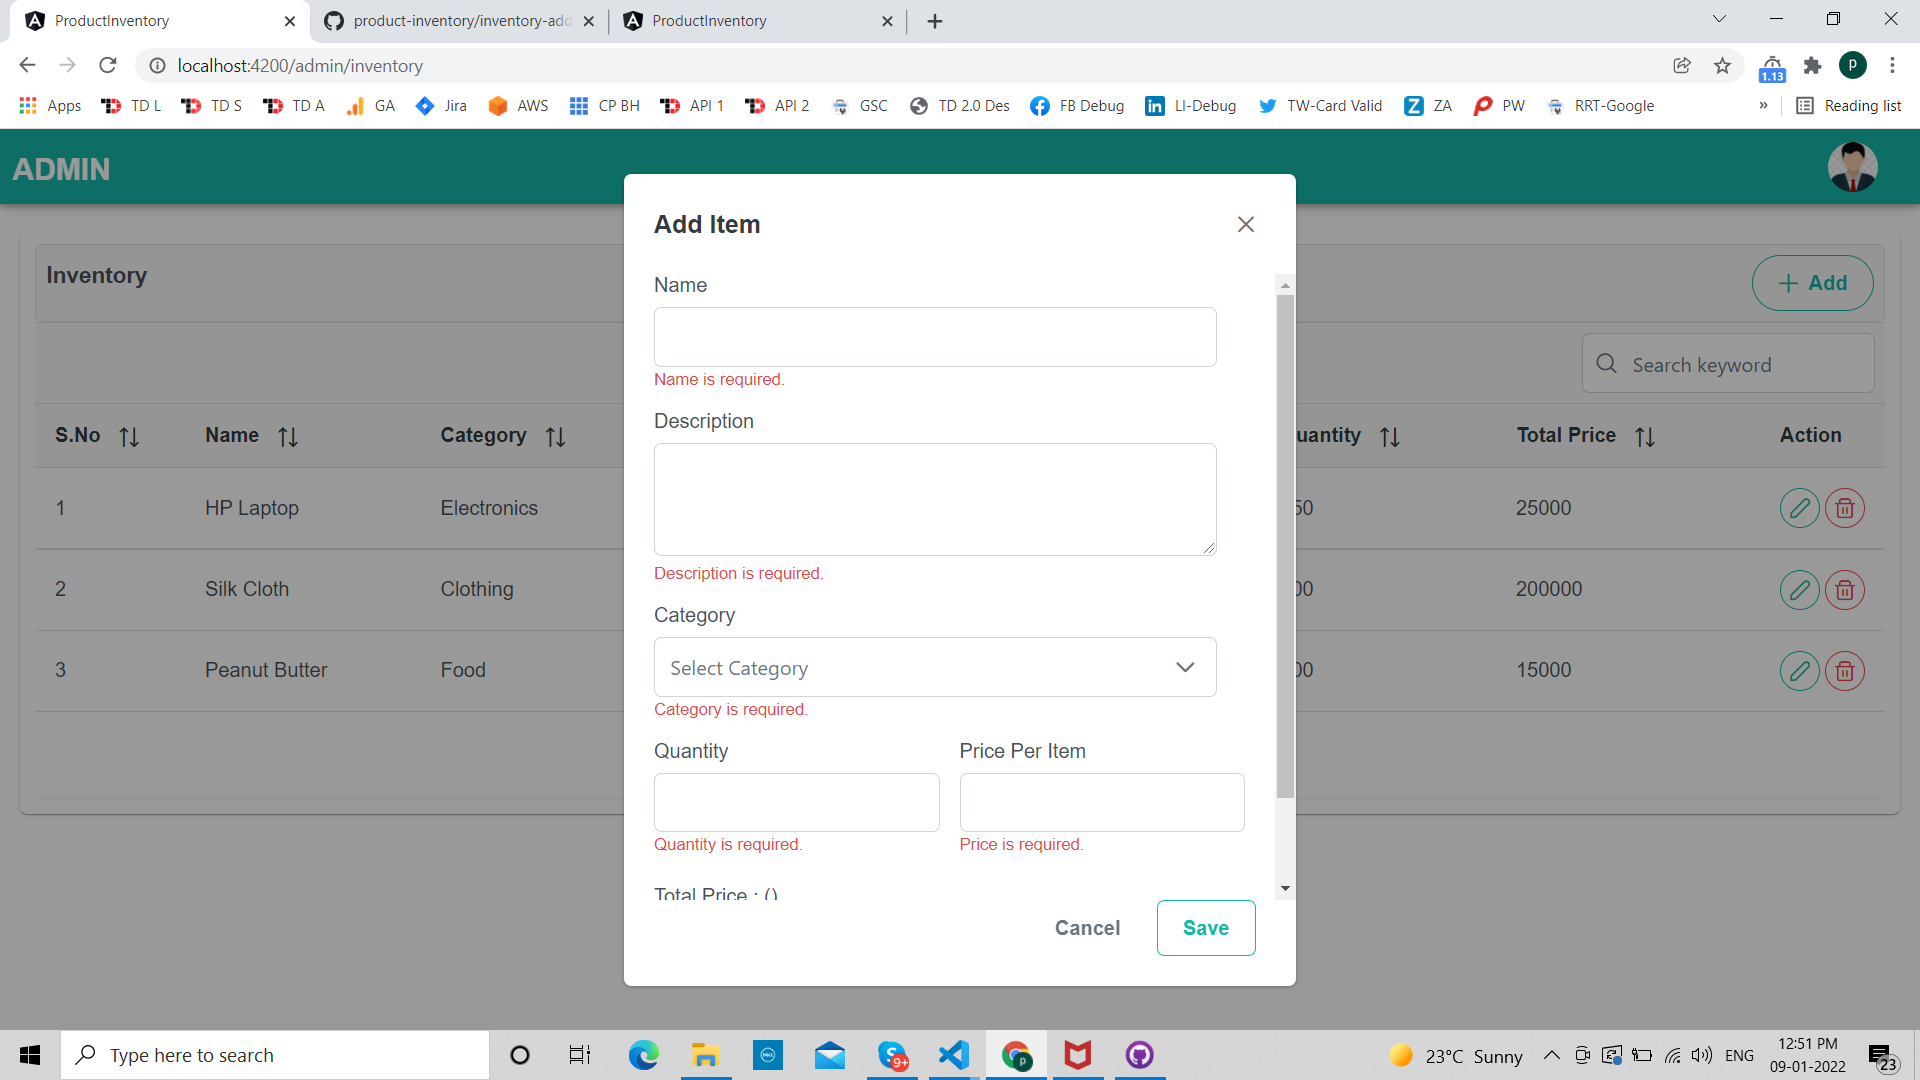
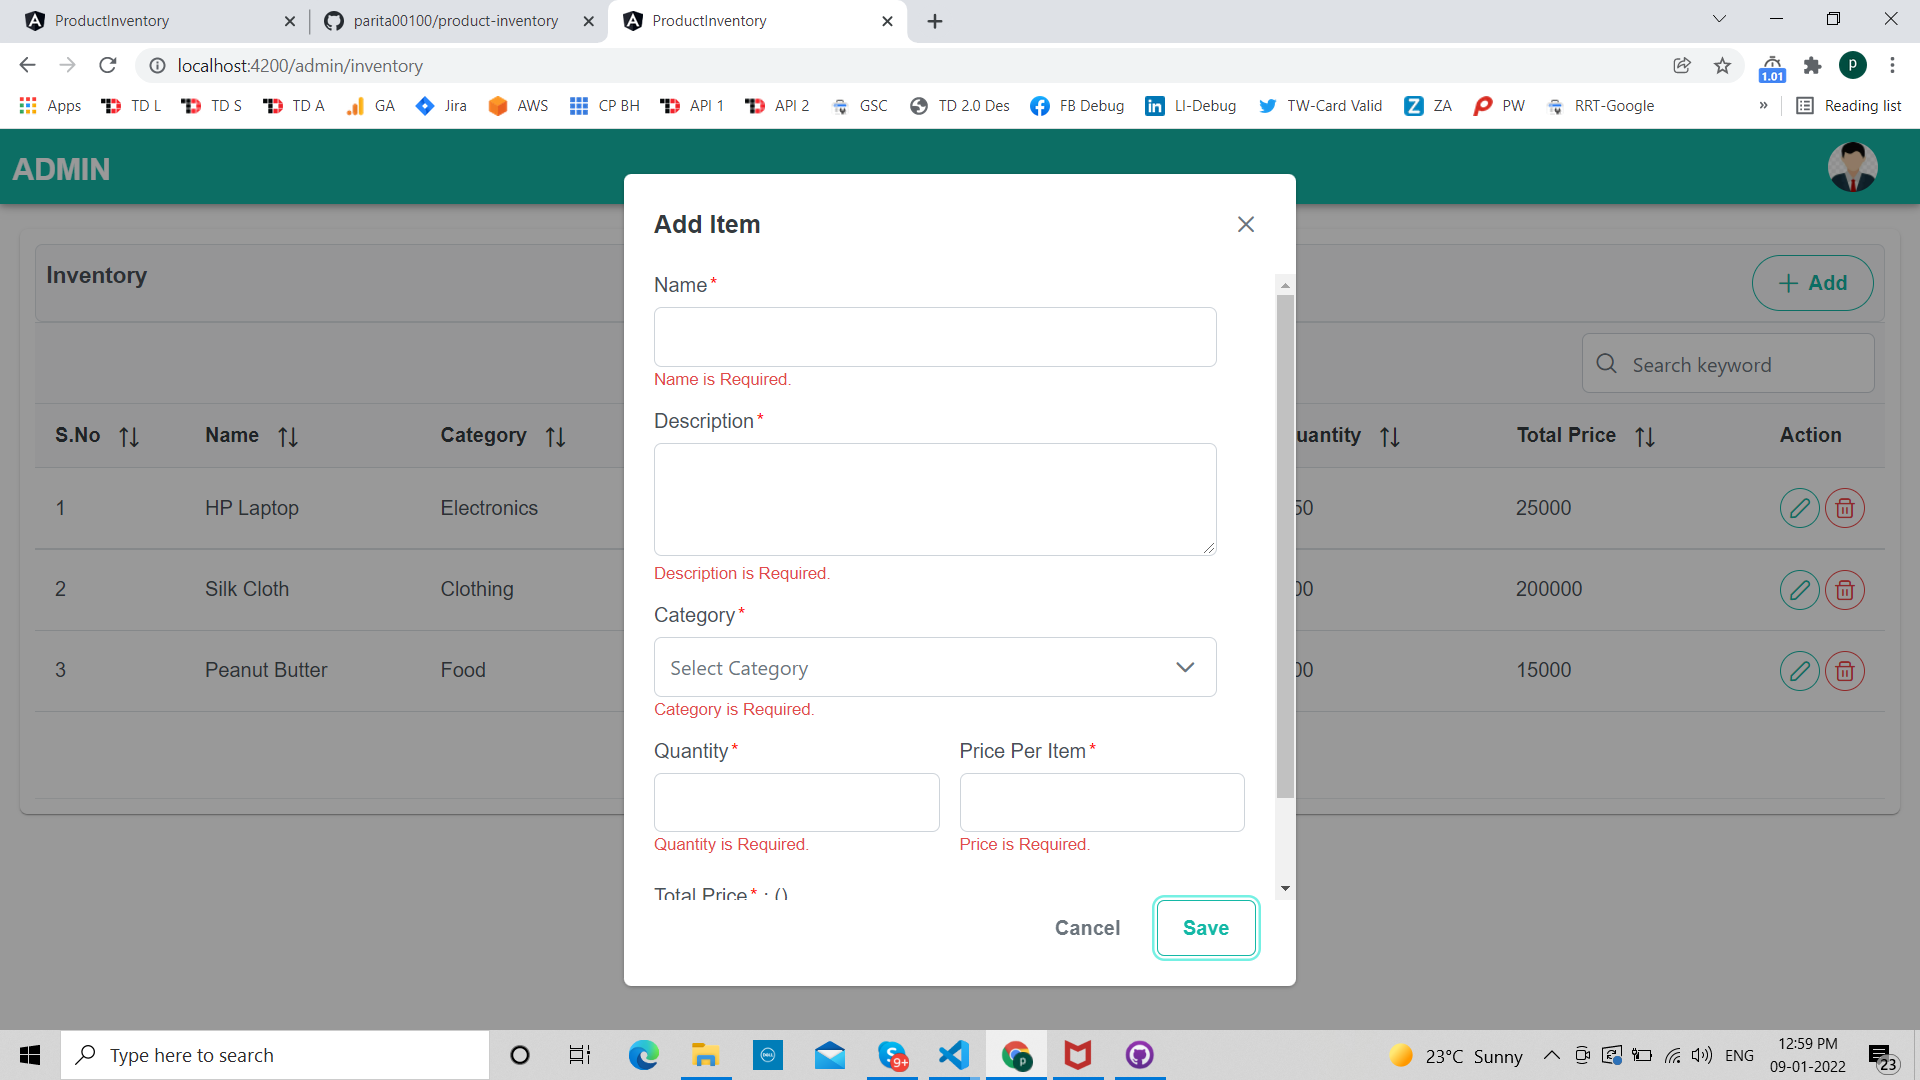
added mandatory fields
added mandatory fields

diff --git a/src/app/admin-features/inventory-management/inventory-management.component.html b/src/app/admin-features/inventory-management/inventory-management.component.html
@@ -95,50 +95,49 @@
     <div class="card">
       <div class="p-fluid p-formgrid">
         <div class="p-field">
-          <label for="name">Name</label>
+          <label for="name">Name<span class="mandatoryfield">*</span></label>
           <input id="name" type="text" pInputText formControlName="name">
-          <small *ngIf="(itemFrm.name.invalid && inventoryObj.submitted)" class="p-error">Name is
-            required.</small>
+          <small *ngIf="(itemFrm.name.invalid && inventoryObj.submitted)" class="p-error">Name
+            {{message?.validation.isRequired}}</small>
         </div>
         <div class="p-field">
-          <label for="description">Description</label>
+          <label for="description">Description<span class="mandatoryfield">*</span></label>
           <textarea id="description" type="text" rows="3" pInputTextarea formControlName="description"></textarea>
-          <small *ngIf="(itemFrm.description.invalid && inventoryObj.submitted)" class="p-error">Description is
-            required.</small>
+          <small *ngIf="(itemFrm.description.invalid && inventoryObj.submitted)" class="p-error">Description
+            {{message?.validation.isRequired}}</small>
         </div>
         <div class="p-field">
           <!-- (onChange)="selectType()" -->
-          <label for="category">Category</label>
+          <label for="category">Category<span class="mandatoryfield">*</span></label>
           <p-dropdown [options]="inventoryObj.categoryOption" placeholder="Select Category" formControlName="category"
             optionLabel="name"></p-dropdown>
-          <small *ngIf="(itemFrm.category.invalid && inventoryObj.submitted)" class="p-error">Category is
-            required.</small>
+          <small *ngIf="(itemFrm.category.invalid && inventoryObj.submitted)" class="p-error">Category
+            {{message?.validation.isRequired}}</small>
         </div>
         <div class="p-grid">
           <div class="p-field p-col-12 p-md-6">
-            <label for="quantity">Quantity</label>
+            <label for="quantity">Quantity<span class="mandatoryfield">*</span></label>
             <p-inputNumber formControlName="quantity"
               (onInput)="calculateTotalPrice($event.value,itemFrm.pricePerItem.value)"></p-inputNumber>
-            <small *ngIf="(itemFrm.quantity.invalid && inventoryObj.submitted)" class="p-error">Quantity is
-              required.</small>
+            <small *ngIf="(itemFrm.quantity.invalid && inventoryObj.submitted)" class="p-error">Quantity
+              {{message?.validation.isRequired}}</small>
 
           </div>
           <div class="p-field p-col-12 p-md-6">
-            <label for="quantity">Price Per Item</label>
+            <label for="quantity">Price Per Item<span class="mandatoryfield">*</span></label>
             <p-inputNumber formControlName="pricePerItem"
               (onInput)="calculateTotalPrice(itemFrm.quantity.value,$event.value)" mode="decimal"
               [minFractionDigits]="2" [maxFractionDigits]="2"></p-inputNumber>
-            <small *ngIf="(itemFrm.pricePerItem.invalid && inventoryObj.submitted)" class="p-error">Price is
-              required.</small>
-
+            <small *ngIf="(itemFrm.pricePerItem.invalid && inventoryObj.submitted)" class="p-error">Price
+              {{message?.validation.isRequired}}</small>
           </div>
         </div>
         <div class="p-field">
-          <label for="quantity">Total Price :</label>
+          <label for="quantity">Total Price<span class="mandatoryfield">*</span> :</label>
           ({{itemFrm.totalPrice.value}})
           <br>
-          <small *ngIf="(itemFrm.totalPrice.invalid && inventoryObj.submitted)" class="p-error">Total Price is
-            required.</small>
+          <small *ngIf="(itemFrm.totalPrice.invalid && inventoryObj.submitted)" class="p-error">Total Price
+            {{message?.validation.isRequired}}</small>
         </div>
       </div>
     </div>

diff --git a/src/app/shared/constant/message.constant.ts b/src/app/shared/constant/message.constant.ts
@@ -9,7 +9,7 @@ export const MessageConstant = {
     action: 'Action',
   },
   validation: {
-    isRequired: 'is Required',
+    isRequired: 'is Required.',
     alphabaticOnly: ' is must be alphabetical',
     alphnumericOnly: ' is must be alphabetical'
   },

diff --git a/src/styles.scss b/src/styles.scss
@@ -48,3 +48,8 @@
 .text-center {
   text-align: center;
 }
+
+.mandatoryfield {
+  color: red;
+  padding-left: 2px;
+}
